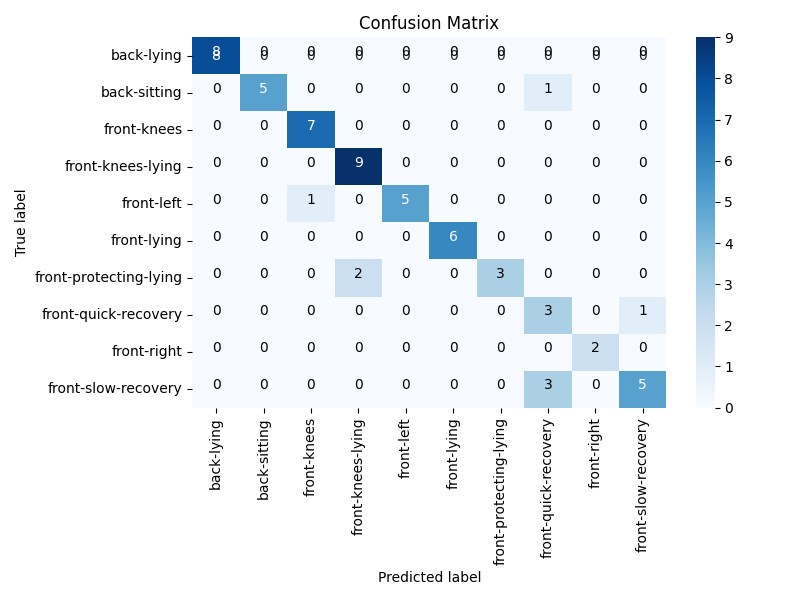
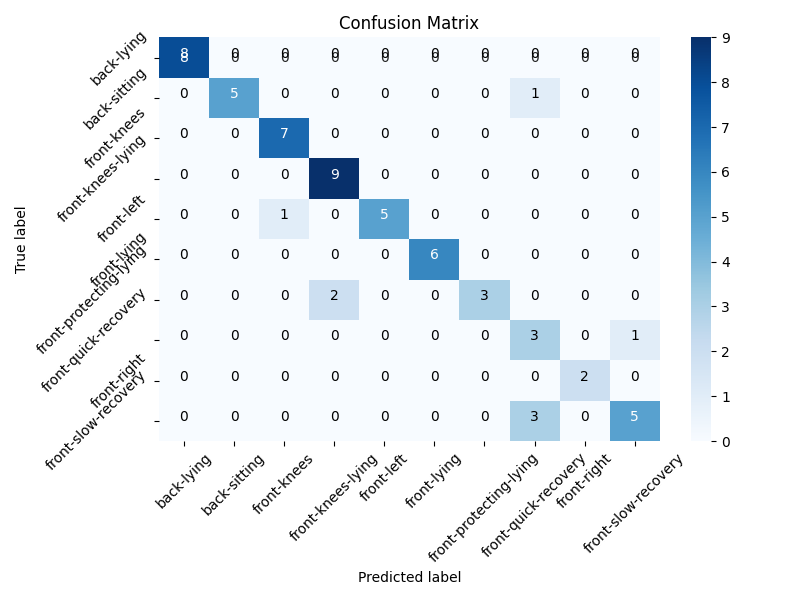
Update Decision Tree

diff --git a/DecisionTree/Decision_Tree_Model.py b/DecisionTree/Decision_Tree_Model.py
@@ -158,7 +158,9 @@ def plot_confusion_matrix(y_true, y_pred, classes, title='Confusion Matrix', cma
     plt.title(title)
     plt.ylabel('True label')
     plt.xlabel('Predicted label')
-
+    plt.xticks(rotation=45)  # Rotate labels for better readability
+    plt.yticks(rotation=45)
+    plt.grid(False)  # Turn off the grid to reduce visual clutter
     # Highlighting each cell
     thresh = cm.max() / 2.
     for i in range(cm.shape[0]):
